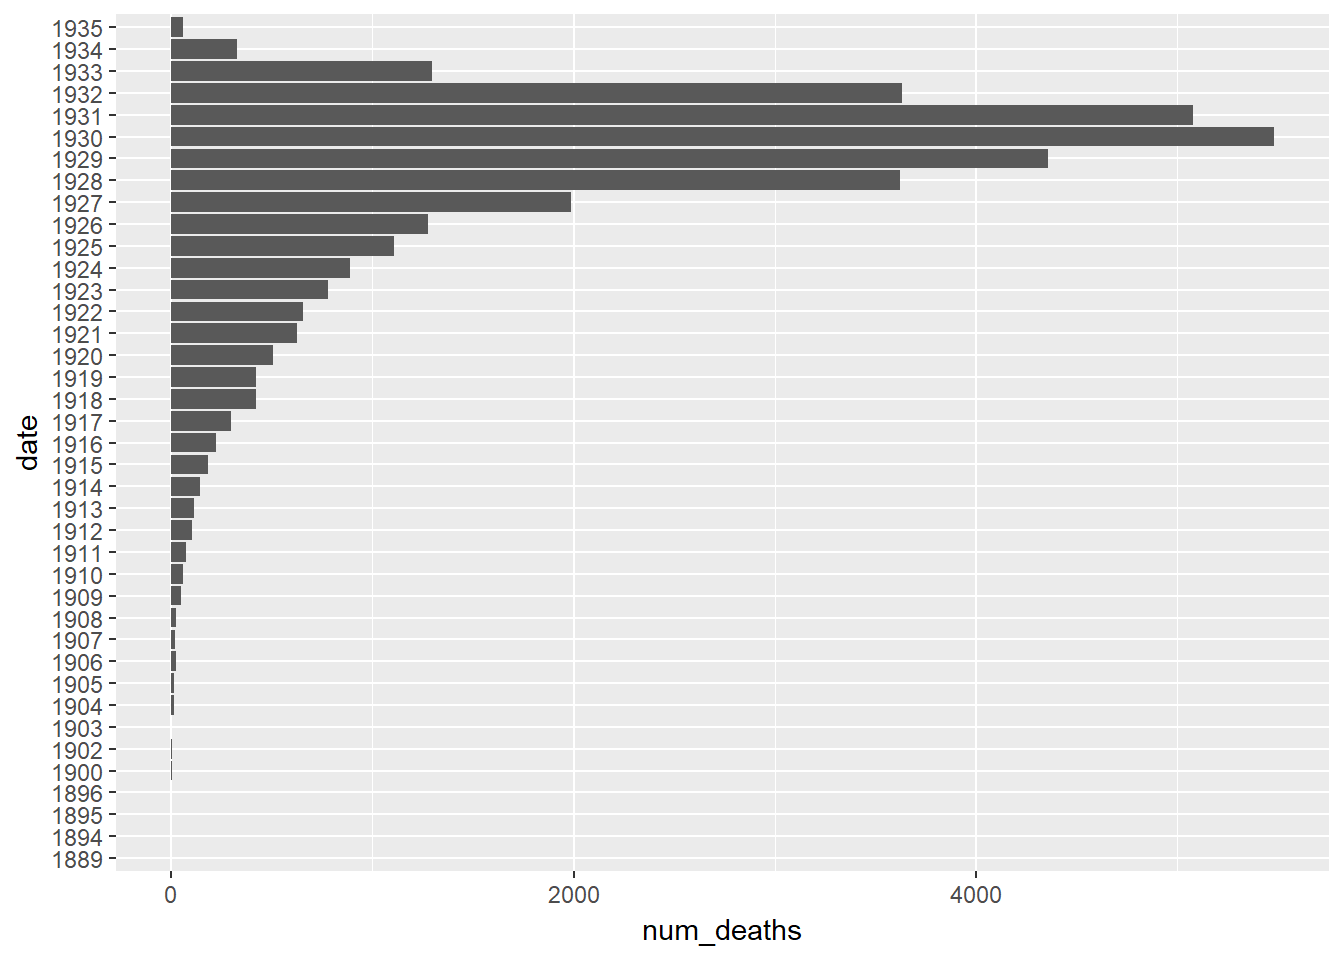
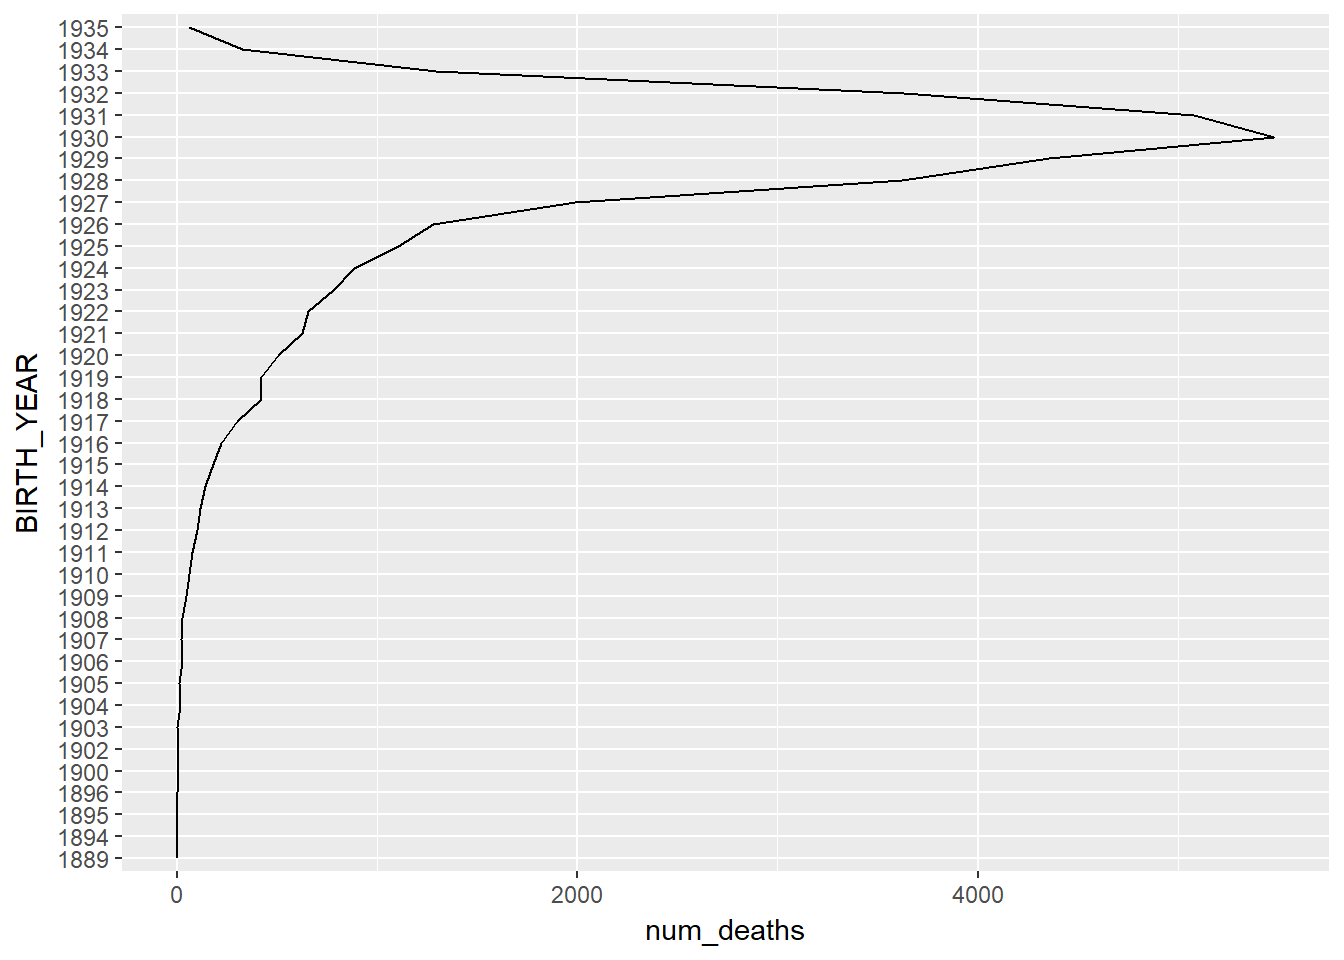
Fixed the line grpah on korean war data

diff --git a/public/post/koreanconflict/index.html b/public/post/koreanconflict/index.html
@@ -112,7 +112,7 @@ colnames(kc)</code></pre>
 #filter the data to only get birth years and how many people died that where born that year</code></pre>
 <p>Then graph it:</p>
 <pre class="r"><code>ggplot()+
-  geom_bar(data = df, aes(x = date, y = num_deaths), stat = &quot;identity&quot;)+
+  geom_line(data = df, aes(x = BIRTH_YEAR, y = num_deaths, group = 1))+
   coord_flip()</code></pre>
 <p><img src="/post/KoreanConflict_files/figure-html/unnamed-chunk-9-1.png" width="672" /></p>
 <pre class="r"><code>#graph showing that people born in 1930 had the most deaths in the korean conflict</code></pre>

diff --git a/content/post/KoreanConflict.html b/content/post/KoreanConflict.html
@@ -79,7 +79,7 @@ colnames(kc)</code></pre>
 #filter the data to only get birth years and how many people died that where born that year</code></pre>
 <p>Then graph it:</p>
 <pre class="r"><code>ggplot()+
-  geom_bar(data = df, aes(x = date, y = num_deaths), stat = &quot;identity&quot;)+
+  geom_line(data = df, aes(x = BIRTH_YEAR, y = num_deaths, group = 1))+
   coord_flip()</code></pre>
 <p><img src="/post/KoreanConflict_files/figure-html/unnamed-chunk-9-1.png" width="672" /></p>
 <pre class="r"><code>#graph showing that people born in 1930 had the most deaths in the korean conflict</code></pre>
